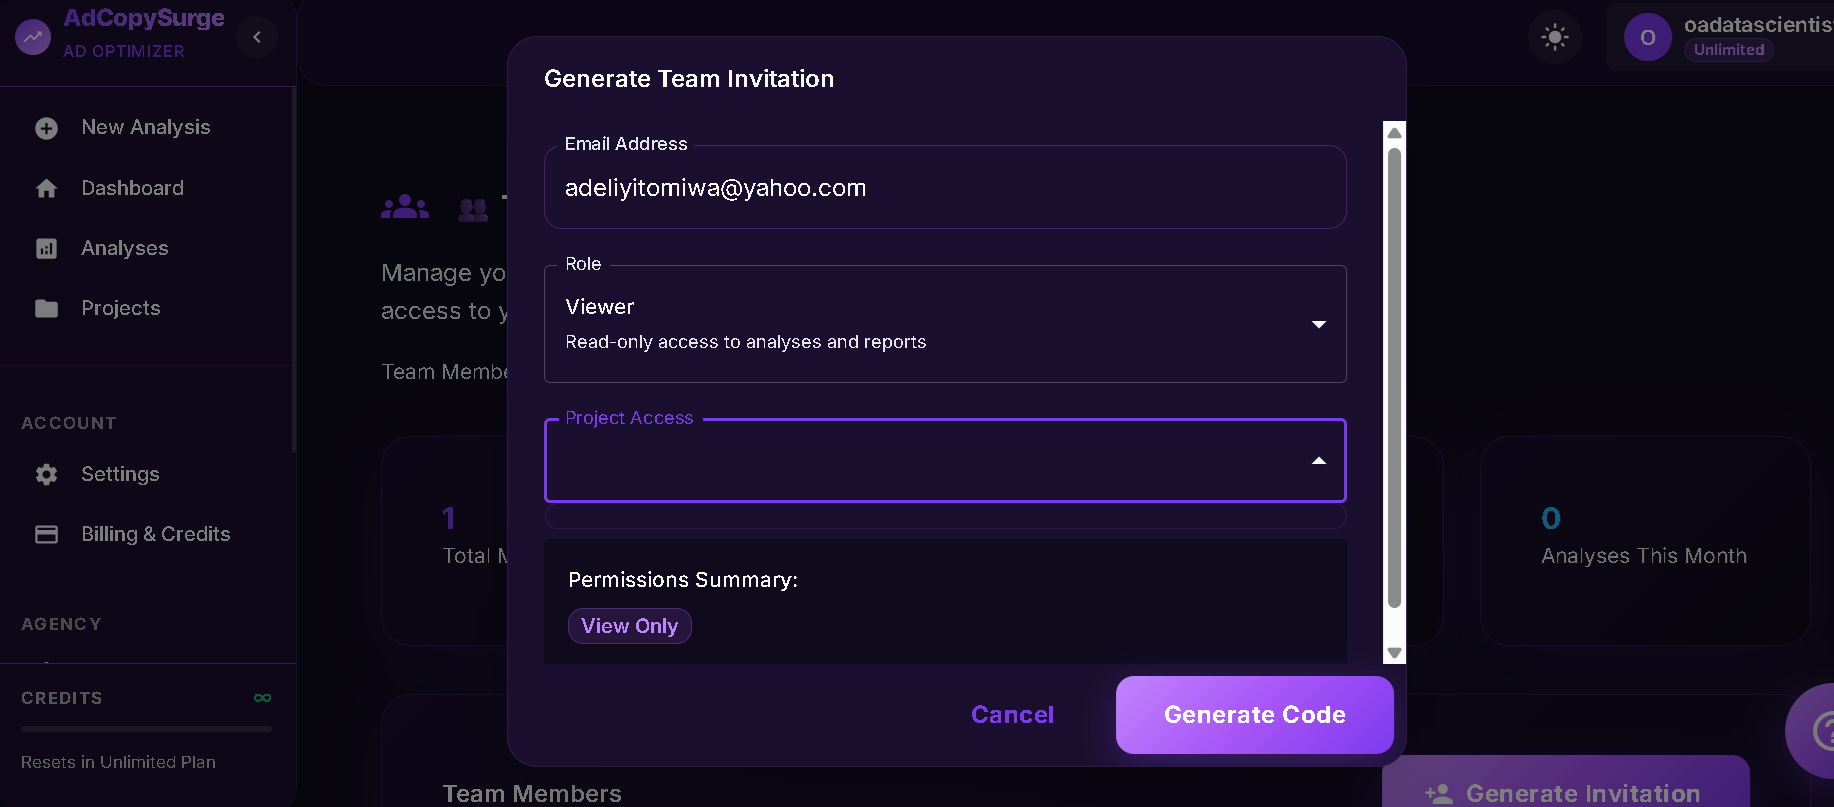
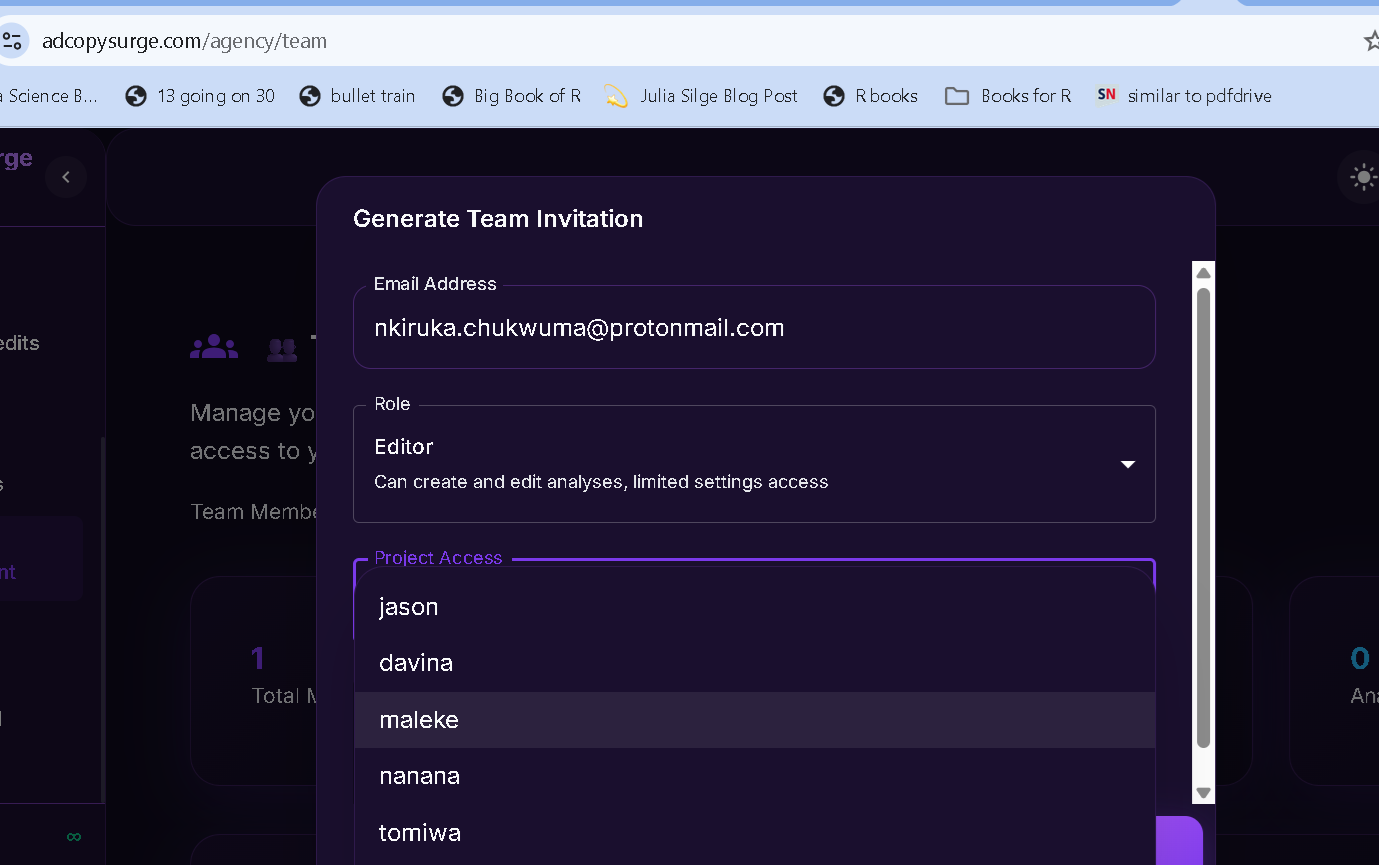
fix-team invitation version 3

diff --git a/frontend/src/pages/agency/TeamManagement.jsx b/frontend/src/pages/agency/TeamManagement.jsx
@@ -30,7 +30,9 @@ import {
   useMediaQuery,
   useTheme,
   CircularProgress,
-  Alert
+  Alert,
+  Checkbox,
+  ListItemText
 } from '@mui/material';
 import {
   Groups as TeamIcon,
@@ -891,19 +893,40 @@ const AgencyTeamManagement = () => {
                   value={selectedProjects}
                   label="Project Access"
                   onChange={(e) => setSelectedProjects(e.target.value)}
-                  renderValue={(selected) => (
-                    <Box sx={{ display: 'flex', flexWrap: 'wrap', gap: 0.5 }}>
-                      {selected.map((value) => (
-                        <Chip key={value} label={projects.find(p => p.id === value)?.name} size="small" />
-                      ))}
-                    </Box>
-                  )}
+                  renderValue={(selected) => {
+                    if (selected.length === 0) {
+                      return <em>Select projects...</em>;
+                    }
+                    return (
+                      <Box sx={{ display: 'flex', flexWrap: 'wrap', gap: 0.5 }}>
+                        {selected.map((value) => (
+                          <Chip
+                            key={value}
+                            label={projects.find(p => p.id === value)?.name || value}
+                            size="small"
+                            color="primary"
+                            variant="outlined"
+                          />
+                        ))}
+                      </Box>
+                    );
+                  }}
                 >
-                  {projects.map((project) => (
-                    <MenuItem key={project.id} value={project.id}>
-                      {project.name}
+                  {projects.length === 0 ? (
+                    <MenuItem disabled>
+                      <em>No projects available</em>
                     </MenuItem>
-                  ))}
+                  ) : (
+                    projects.map((project) => (
+                      <MenuItem key={project.id} value={project.id}>
+                        <Checkbox
+                          checked={selectedProjects.indexOf(project.id) > -1}
+                          sx={{ mr: 1 }}
+                        />
+                        <ListItemText primary={project.name} />
+                      </MenuItem>
+                    ))
+                  )}
                 </Select>
               </FormControl>
             )}
@@ -917,11 +940,20 @@ const AgencyTeamManagement = () => {
                   label="Client Association"
                   onChange={(e) => setSelectedClients([e.target.value])}
                 >
-                  {clients.map((client) => (
-                    <MenuItem key={client.id} value={client.id}>
-                      {client.name}
+                  {clients.length === 0 ? (
+                    <MenuItem disabled>
+                      <em>No clients available</em>
                     </MenuItem>
-                  ))}
+                  ) : (
+                    clients.map((client) => (
+                      <MenuItem key={client.id} value={client.id}>
+                        <ListItemText
+                          primary={client.name}
+                          secondary={client.email || client.type}
+                        />
+                      </MenuItem>
+                    ))
+                  )}
                 </Select>
               </FormControl>
             )}
